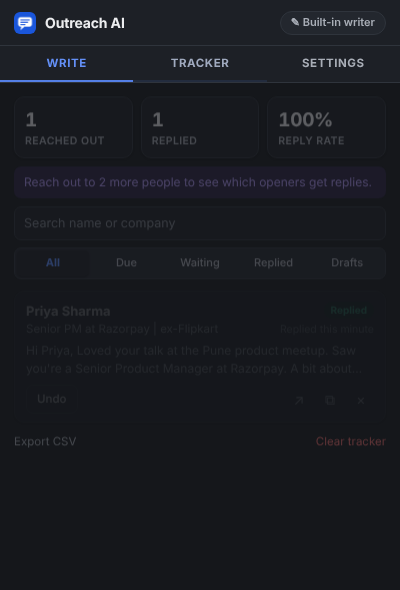
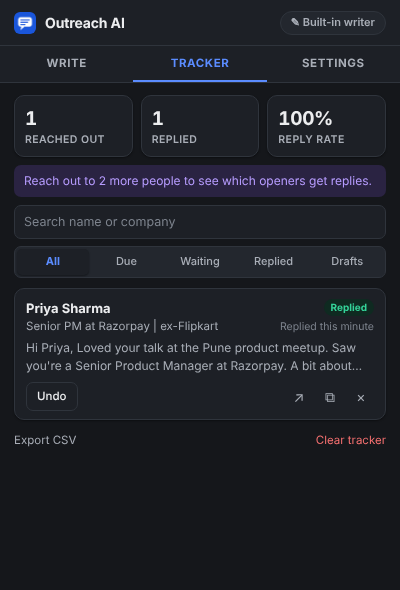
docs: v3.3 changelog, architecture + scaling, README, Loom outline; refreshed screenshots

diff --git a/docs/CHANGELOG.md b/docs/CHANGELOG.md
@@ -1,10 +1,83 @@
-# LinkedIn Outreach AI — v3.1.0 → v3.2.0
+# Changelog
+
+Two rounds of work on the original v3.1.0 extension:
+- **v3.2.0**: fix what was broken, make it honest, make the messages fit LinkedIn, insert into LinkedIn. (Original audit and steps at the bottom.)
+- **v3.3.0**: production-grade structure, follow-up tracking, profile read check, templates, dark mode, tests and CI.
+
+Each step is also a commit: `git log --oneline`.
+
+---
+
+## v3.3.0
+
+### Step 5 — Production-grade structure
+**Why:** v3.2 worked, but it was two 500-line files with storage calls scattered across both. That makes it hard to test, easy to corrupt data, and painful to change when LinkedIn does.
+
+**What:**
+- Split into ES modules: `shared/` (constants + pure text helpers), `background/` (router + one module per concern), `content/`, and `popup/` (one module per tab). The service worker runs as `"type": "module"`.
+- **Router** (`background/router.js`): one entry point. It checks that the sender is our own popup, rejects unknown actions, validates and length-caps every input, and returns user-safe errors. Unexpected errors are logged and masked.
+- **Storage layer** (`background/store.js`): the only code that touches `chrome.storage`. Every read-modify-write runs through a lock, so the popup and the hourly alarm can't overwrite each other.
+- **Schema v2 + migrations** (`background/migrate.js`): upgrades data from the original v3.1 and from v3.2 automatically. Contacts are now keyed by profile (`in:<slug>`), so no duplicates. The PDF the original stored is deleted.
+- **API client** (`background/anthropic.js`): 30 s timeout, up to 2 retries with exponential backoff and jitter, honours `Retry-After`, never retries auth errors, and gives clear error messages.
+- **The API key never goes back to the UI.** The popup only sees `hasKey` and a masked hint (`sk-ant-…1234`).
+- **Strict Content Security Policy.** No `innerHTML` with data anywhere in the popup.
+- **Draft session** moved to `chrome.storage.session`: in memory and cleared when the browser closes.
+
+### Step 6 — Follow-ups and reply tracking (new Tracker tab)
+**Why:** most replies on LinkedIn come after a follow-up, and the extension forgot people the moment you closed it.
+
+**What:**
+- Each person moves through **Draft → Copied → Inserted → Sent → Replied**. Insert sets it automatically; you mark Sent or Replied with one click (the extension never presses Send, so it can't know).
+- **Reminders:** after N days without a reply (default 5, set in Settings), the person moves to *Due*. The toolbar icon shows a **badge count**, an optional desktop notification fires once per due cycle, and clicking it opens their profile. Later follow-ups wait longer (5 → 7 → 9 days) and stop after 3.
+- **Write follow-up:** a short follow-up that refers to the original note. The second one offers a polite way out. Built-in or AI. Copy it, open the profile, and **Mark as sent** to log it.
+- **Stats:** reached out, replied, reply rate, plus an insight line showing which kind of opener gets replies (e.g. "Common ground — 2 of 3 replied").
+- **Search, filters** (All / Due / Waiting / Replied / Drafts), **paging**, and **CSV export** (opens correctly in Excel and is safe against formula injection).
+- **"Already contacted" banner** on the Write tab when you open someone you've written to before.
+
+### Step 7 — Profile read check
+**Why:** LinkedIn changes its markup often. When the scraper breaks, the old version silently produced generic messages.
+
+**What:**
+- The content script reports which of 8 parts it found (name, headline, location, about, experience, education, skills, recent posts). The popup shows a **"6/8 read"** pill; click it for the list.
+- If the essentials are missing (no headline *and* no experience), a **layout-change warning** explains that drafts will be generic.
+- Sections are found by LinkedIn's anchor ids first (language-independent), then by heading text. All selectors live in one `SELECTORS` block.
+- Insert now **checks the text actually landed**. If LinkedIn rejected it, the draft is copied and you're told to paste.
+
+### Step 8 — Saved templates
+**What:** **☆ Save as template** on any draft. Their name, company and title, your name, and the opening detail become `{firstName}`, `{company}`, `{title}`, `{myName}` and `{hook}`. Pick a template from the menu above the draft and it's filled in for the next person, with sensible fallbacks for missing values. Templates for the current purpose are listed first. Manage or delete them in Settings, where usage counts are shown.
+
+### Step 9 — Dark mode and polish
+- **Theme:** System / Light / Dark, built on a full set of colour variables (contrast checked by eye in both themes).
+- **Shortcuts:** `Alt+Shift+O` opens the extension; `Ctrl/⌘+Enter` inserts; `Alt+N` writes a new version.
+- **Accessibility:** proper tab roles, arrow-key navigation, visible focus rings, `aria-live` status messages, labelled icon buttons, and `prefers-reduced-motion` respected.
+- **Feel:** loading skeleton while reading, subtle fade-ins, toasts, a two-click confirm on destructive actions (no blocking dialogs), and a grouped Settings page.
+
+### Step 10 — Tooling, tests, CI
+- `npm run lint`: ESLint 9 (flat config). Clean.
+- `npm test`: **48 unit tests** (Node's built-in runner). Covers text helpers, hooks, the built-in writer (180-draft limit matrix), templates, tracker maths, migrations, API retry/timeout, AI prompts, and the router end to end with a mock Chrome (lifecycle, lock under concurrency, paging, CSV, badge, notifications, reset).
+- `npm run test:e2e`: **14-step Playwright run** in real Chrome with the extension loaded and linkedin.com routed to mock pages. It also asserts there are zero console errors and saves the screenshots.
+- `npm run package`: validates the manifest (version match, every referenced file exists) and builds `dist/linkedin-outreach-ai-v3.3.0.zip` (about 61 KB).
+- `.github/workflows/ci.yml`: lint → unit → e2e → package, with the zip and screenshots uploaded as build artifacts.
+
+### Found and fixed by the new tests
+- Applying a template with an empty `{hook}` left a stray leading space.
+- `"SQL"` would have matched `"PostgreSQL"` as common ground. Matching is now whole-word.
+- The toolbar badge could be up to an hour stale. It now refreshes whenever the popup opens.
+
+### Not verified (needs a manual check before the demo)
+- **The live LinkedIn DOM.** The e2e suite runs against mock pages shaped like LinkedIn's.
+- **Real Anthropic API calls.** There was no key in the test environment; the AI path is unit-tested against a stub.
+- **The GitHub Actions run.** The workflow is included but hasn't run on GitHub. Locally I used system Chrome via `CHROME_PATH`.
+
+---
+
+## v3.2.0 (from the original v3.1.0)
 
 A step-by-step log of what I changed, why, and how. The brief was "improve, don't rebuild", so the architecture is the same (popup → background service worker → content script). I fixed what was broken, removed what was misleading, and made the core job — getting a reply — work better.
 
 ---
 
-## Step 0 — Audit (before touching code)
+### Step 0 — Audit (before touching code)
 
 I read every file and used the extension the way a user would. Findings, worst first:
 
@@ -26,7 +99,7 @@ I read every file and used the extension the way a user would. Findings, worst f
 
 ---
 
-## Step 1 — Make it install and work
+### Step 1 — Make it install and work
 
 **Icons** — generated a simple 16/48/128 px icon (`tests/make_icons.py`) and added `action.default_icon`.
 
@@ -41,7 +114,7 @@ I read every file and used the extension the way a user would. Findings, worst f
 
 Purpose, tone and format choices are remembered between uses.
 
-## Step 2 — Make "Deep Mode" honest, then useful
+### Step 2 — Make "Deep Mode" honest, then useful
 
 **Removed** the fake 3-layer pipeline: the OpenAI labels, the L1/L2/L3 status dots, the artificial delay, the two-button scrape-then-generate flow, and the Quick/Deep toggle. Both modes ran the same local code, so there was nothing real to choose between.
 
@@ -59,7 +132,7 @@ Purpose, tone and format choices are remembered between uses.
 
 **Header badge** tells the truth: `Built-in writer` (nothing leaves the device) or `AI · your key`. The settings note now says exactly when data is sent to Anthropic.
 
-## Step 3 — Messages that fit LinkedIn and sound human
+### Step 3 — Messages that fit LinkedIn and sound human
 
 **Format selector:** Connect note (300) · Free-plan note (200) · Message (600 soft cap). Every writer respects the limit.
 
@@ -78,7 +151,7 @@ Purpose, tone and format choices are remembered between uses.
 - If the reply is still over the limit, it gets one "shorten this" pass, then a safe cut as a last resort.
 - Clearer API errors (401 → "key was rejected", 429 → "rate limited").
 
-## Step 4 — Insert into LinkedIn
+### Step 4 — Insert into LinkedIn
 
 New **Insert into LinkedIn** button. The content script finds the box you most likely mean, in this order:
 1. The **"Add a note"** textarea in the Connect dialog.
@@ -92,48 +165,11 @@ Safety and edge cases:
 - Text is inserted with the native value setter / `insertText`, so LinkedIn's own UI registers the change. The extension **never clicks Send**. You review and send it yourself.
 - On success, the Recent entry is marked **Inserted**.
 
-## Smaller fixes
+### Smaller fixes
 
 - The scraper restores your scroll position and works out location for any country (no hard-coded city list). Headline/role extraction handles `Title @ Company`.
 - The content script guards against being injected twice.
 - Cleaned the CSS: removed duplicated resume/upload blocks, unused provider/password/pipeline styles, and `text-transform: uppercase` on the API key field.
 - `esc()` now escapes quotes. The Recent list uses event delegation instead of per-index IDs.
 
----
-
-## How I tested it
-
-| Test | What it checks | Result |
-|---|---|---|
-| `node --check` on all JS + manifest JSON parse | Syntax | Pass |
-| `tests/unit.js` | 144 drafts (3 formats × 4 purposes × 3 tones × 4 variants) against the limit and for stray `undefined`/`null`; sparse profile; New version differs | 0 failures, 128 unique drafts |
-| `tests/ai_unit.js` | AI path with a stubbed Anthropic API: system prompt, limit in prompt, shortening retry, resume document block, no-key error | Pass |
-| `tests/e2e.js` (Playwright + real Chrome, extension loaded, linkedin.com routed to `tests/mock/profile.html`) | Read → hooks → auto-redraft → New version → format switch → Insert into note → replace guard → Insert into message box → copy fallback → session restore → Recent status → non-profile warning; no console errors | Pass |
-
-**Not verified:** the live LinkedIn DOM (the e2e uses a mock page shaped like LinkedIn's), and real Anthropic API calls (no key in the test environment). Both need a manual check on a real profile before the demo. The LinkedIn selectors are the most likely thing to need a tweak, because LinkedIn changes its markup often.
-
-Run the tests (Node 18+, Playwright, Chrome):
-```
-node tests/unit.js ./extension/background.js
-node tests/ai_unit.js ./extension/background.js
-node tests/e2e.js ./extension ./screenshots
-```
-(`popup.html?tabId=<id>` exists only so the e2e test can drive the popup as a normal page.)
-
-## Files changed
-
-| File | Change |
-|---|---|
-| `manifest.json` | v3.2.0, honest description, action icons |
-| `icons/*` | **new** |
-| `background.js` | single router; hooks + common ground; format-aware local writer; new AI prompt + shorten pass; resume reader; recent log; insert relay |
-| `content_script.js` | scraper fixes; **new** `insertMessage` |
-| `popup.html` | one flow; format selector; meter; hook picker; Insert button; background field; removed pipeline UI and `utils/cache.js` |
-| `popup.js` | rewritten around the single flow + session restore |
-| `popup.css` | layout fix, cleanup, styles for new components |
-
-## What I'd do next
-
-1. **Follow-up reminders**: Recent already knows who you inserted a note for. Nudge after 5 days with a follow-up draft.
-2. **Reply-rate tracking**: mark "Replied" in Recent to learn which hooks and purposes work.
-3. **Selector health check**: a tiny self-test that warns when LinkedIn's markup changes, instead of failing silently.
+*(v3.2's test notes and file list are superseded by v3.3: see the README for the current layout and test commands. The v3.2 "what next" list (follow-up reminders, reply tracking, selector health check) was built in v3.3.)*

diff --git a/docs/ARCHITECTURE.md b/docs/ARCHITECTURE.md
@@ -1,0 +1,99 @@
+# Architecture
+
+## Shape of the system
+
+```
+┌──────────────── Chrome (one per user) ────────────────────────────────────────┐
+│                                                                                │
+│  popup/ (ES modules)            background/ (MV3 service worker, ES modules)   │
+│  ┌──────────────┐  runtime     ┌──────────────────────────────────────────┐   │
+│  │ main.js      │  message     │ index.js   listeners (msg, alarms, notif)│   │
+│  │ write.js     │ ───────────▶ │ router.js  trusted-sender check, input   │   │
+│  │ tracker.js   │ {action,     │            validation, error shaping     │   │
+│  │ settings.js  │  payload}    │ ├─ hooks.js        profile → hooks       │   │
+│  │ api.js dom.js│ ◀─────────── │ ├─ writer-local.js built-in writer       │   │
+│  └──────────────┘ {success,    │ ├─ writer-ai.js    prompts + limit fit   │──▶ api.anthropic.com
+│                    data|error} │ ├─ anthropic.js    timeout/retry client  │   (only with user's key)
+│                                │ ├─ templates.js    placeholders          │   │
+│                                │ ├─ tracker.js      due dates, stats, CSV │   │
+│                                │ ├─ followups.js    alarm, badge, notify  │   │
+│                                │ ├─ store.js ──▶ chrome.storage (locked)  │   │
+│                                │ ├─ migrate.js      schema upgrades       │   │
+│                                │ └─ linkedin.js ──▶ tabs / scripting      │   │
+│                                └──────────────────────────┬───────────────┘   │
+│                                                           │ tabs.sendMessage  │
+│                                content/content_script.js ◀┘ (linkedin.com)    │
+│                                  SELECTORS · scrape + diagnostics · insert     │
+│  shared/constants.js · shared/text.js  — used by all of the above + tests      │
+└────────────────────────────────────────────────────────────────────────────────┘
+```
+
+**Rules that keep it maintainable**
+- **One writer to storage.** Only `background/store.js` touches `chrome.storage`. The popup never writes storage directly; it asks the router.
+- **Pure core, thin edges.** Hooks, both writers, templates, tracker maths and migrations are pure functions with no `chrome.*`. They're unit-tested in Node. Chrome APIs sit in `store`, `linkedin`, `followups` and `index`.
+- **One contract.** Every action name is in `shared/constants.js#ACTIONS`. Unknown actions and untrusted senders are rejected.
+- **Selectors in one place.** LinkedIn markup changes are a one-block edit in `content_script.js#SELECTORS`. The read check tells you when that edit is needed.
+
+## Data model (`chrome.storage.local`, schema v2)
+
+| Key | Shape | Notes |
+|---|---|---|
+| `schemaVersion` | `2` | `migrate.js` upgrades v3.1 / v3.2 data on install/update; idempotent |
+| `settings` | `{name, bio, background, apiKey, resumeFileName, followUpDays, notifications, theme}` | `apiKey` is never sent back to the UI (only `hasKey` + a masked hint) |
+| `prefs` | `{messageType, tone, format}` | last-used choices |
+| `contacts` | `{ [id: "in:<slug>"]: Contact }` | keyed by profile slug → O(1) upsert, no duplicates |
+| `templates` | `Template[]` | ≤ 50 |
+| *(session)* `draft` | current profile/hooks/draft | `chrome.storage.session`: in memory, cleared when the browser closes, 6 h TTL |
+
+`Contact`: `id, profileUrl, name, headline, company, purpose, format, message, hooks[≤2], status (drafted|copied|inserted|sent|replied|closed), followUps, createdAt, updatedAt, insertedAt, sentAt, lastTouchAt, repliedAt, notifiedAt, history[≤20]`.
+
+## Reliability
+
+| Concern | How it's handled |
+|---|---|
+| Lost updates (popup + hourly alarm writing at once) | `withLock()` promise queue around every read-modify-write. Unit test fires 50 concurrent increments and expects exactly 50. |
+| Service worker restarts mid-request | All listeners registered synchronously at top level. Every request awaits `ready` (migration) first. |
+| API flakiness | 30 s timeout via `AbortController`. Up to 2 retries with exponential backoff + jitter on 429/5xx/529/network. Honours `Retry-After`. No retry on 400/401/403. |
+| Over-long AI output | One "shorten" pass, then a sentence-boundary cut. Never exceeds the format's limit. |
+| Draft lost when the popup closes | Session saved on every change (debounced) and restored per profile URL. |
+| LinkedIn markup drift | Anchor-id lookup first, heading text as fallback. Read check reports `found/8` and flags a likely layout change. Insert verifies the text actually landed and falls back to copy if not. |
+| Old data after an update | Versioned migrations. The stored resume PDF from v3.1 is deleted. |
+| Unbounded growth | Contacts capped at 1,000 (prunes oldest drafts first, keeps people awaiting a reply). Tracker lists are paged (30 per page). |
+
+## Security & privacy
+
+- **No backend; no data leaves the browser** unless the user adds their own Anthropic key. Then only the profile text needed for the draft (and the resume, once) is sent to `api.anthropic.com`.
+- **Strict CSP** on extension pages (`script-src 'self'; object-src 'none'`). **No `innerHTML` with data** in the popup: every node is built with `textContent` (`dom.js#h`).
+- **Router only accepts our own extension pages** (`sender.id` + `chrome-extension://<id>/` URL). The content script only accepts messages from the extension.
+- **All inputs are validated and length-capped at the boundary** (`normalizeProfile`, `sanitizeHooks`, `sanitizeSettings`, router guards).
+- **CSV export neutralises spreadsheet formula injection** (`=`, `+`, `-`, `@` prefixes).
+- **Least surprise on LinkedIn.** The extension never clicks Send and never overwrites text the user typed without a second click.
+
+## Performance
+
+- Popup boot is one `getState` round-trip. Tabs render lazily; the tracker loads only when opened, 30 rows at a time, with debounced search.
+- The scraper scrolls only as far as the page allows and restores the user's scroll position.
+- Package size is about 61 KB with zero runtime dependencies.
+
+## Scaling
+
+**What exists today.** The extension is fully client-side, so it scales horizontally by construction. Each user's browser is its own compute and storage, and there's no shared server to overload. Within one user's browser, the bounded store, paging and lock keep it fast at the 1,000-contact cap.
+
+**If this became a product with a backend,** for team accounts, a shared key, cross-device sync or analytics, this is the design I'd use. **None of it is built here.** It would be a rebuild, which the brief ruled out.
+
+```
+extension ──HTTPS──▶ API gateway / edge (rate limit per user: token bucket in Redis)
+                       │
+                       ├─▶ stateless API pods (autoscaled on CPU/RPS — horizontal)
+                       │      ├─ /draft   → LLM proxy (holds org key; per-user quotas; retries; circuit breaker)
+                       │      ├─ /sync    → contacts/templates CRUD (last-write-wins + updatedAt)
+                       │      └─ /events  → analytics ingest
+                       ├─▶ Postgres (row-level security per user/org; read replicas for reporting;
+                       │            vertical scale first, partition `contacts` by org_id when needed)
+                       ├─▶ queue (e.g. SQS) → workers for slow jobs (resume parsing, enrichment)
+                       └─▶ observability: structured logs, traces, p95 latency + LLM cost dashboards
+```
+
+- **Horizontal:** API pods are stateless (sessions in JWTs, rate-limit state in Redis), so you add replicas behind the load balancer. LLM calls go through a queue with a concurrency cap so bursts can't exhaust provider quotas.
+- **Vertical:** Postgres is scaled up first (simplest). Then add read replicas for analytics, then partition by `org_id`.
+- **The client is already shaped for it.** `store.js` is the only persistence boundary, so sync can be added there. `anthropic.js` is injectable, so it can point at the proxy instead of the provider. Contact ids are stable (`in:<slug>`), so merging across devices is deterministic.

diff --git a/docs/LOOM_OUTLINE.md b/docs/LOOM_OUTLINE.md
@@ -1,0 +1,36 @@
+# Loom outline (aim for 6–7 minutes)
+
+Talking points, not a script. Say it in your own words. Keep a browser tab ready with the original code from Drive, this repo in your editor, and LinkedIn open on a real profile.
+
+## 1. Framing (20 s)
+- "I treated this like a product review: what stops someone getting a reply on LinkedIn, and where does the extension get in the way?"
+- Three problems: **it was broken, it overpromised, and its messages wouldn't get replies.** Then one missing piece: **it forgot people the moment you closed it.**
+
+## 2. What I found (60 s) — show the original code
+- `utils/cache.js` and the icons were missing → Recent never worked, and the extension might not even load.
+- Deep Mode: "OpenAI — Web Enrichment" in the HTML vs `companyNews: []` and `delay(300)` in the code. "A progress bar for work that isn't happening. For a tool that handles people's data, that's a trust problem."
+- The resume was stored but never used. The prompt allowed 600 chars for 300-char notes. The free template said "impressed by your work".
+
+## 3. Demo (3 min)
+1. **Settings** → name, one-liner, background (or resume → it fills in). Mention the key is never shown back, only `sk-ant-…1234`.
+2. **Profile → Read profile & draft.** Point out the `8/8 read` pill and the ★ common-ground hooks.
+3. Click another hook → the draft rewrites. **Add your own detail.** **New version** (or `Alt+N`).
+4. Switch format 300 → 200 → watch the meter and the draft re-fit.
+5. **Connect → Add a note** on LinkedIn → the popup closes → reopen: the draft is still there → `Ctrl+Enter` inserts. Click again → the "won't overwrite your text" guard.
+6. **☆ Save as template** → pick it from the menu → it's filled in for this person.
+7. **Tracker** → Inserted → Mark sent. "In 5 days this shows up as Due with a badge on the icon." Show **Write follow-up** → **Mark as sent** → **Replied** → stats and the "what's working" insight.
+8. **Dark mode** toggle. Export CSV.
+
+## 4. How it's built (90 s) — editor + terminal
+- Kept MV3 popup → service worker → content script, but split into modules. Open `docs/ARCHITECTURE.md` and show the diagram.
+- Three things that make it production-grade:
+  1. **One storage writer with a lock**. Show the concurrency test (50 parallel updates → exactly 50).
+  2. **Schema migrations**: users of the old version keep their data, and the stored PDF gets deleted.
+  3. **API client** with timeout, backoff and `Retry-After`; **router** that only accepts our own popup and validates every input.
+- **Read check + one `SELECTORS` block**: when LinkedIn changes, you find out and fix it in one place.
+- Run `npm run check` live: lint, 48 unit tests, 14-step e2e in real Chrome.
+
+## 5. Scaling + trade-offs (40 s)
+- "It's fully client-side, so it scales per user by construction: no server to overload. I deliberately didn't add a backend because the brief said not to rebuild." Show the scaling section: stateless API behind a gateway, LLM proxy with quotas, Postgres with row-level security, and why the client is already shaped for it (one storage boundary, injectable API client, stable contact ids).
+- Trade-off: removed Deep Mode instead of making it "real" with web search. Honest and useful beat impressive-looking.
+- Next: test against the live LinkedIn DOM with a small selector-health ping, and an A/B of openers using the reply-rate data.

diff --git a/README.md b/README.md
@@ -1,0 +1,56 @@
+# LinkedIn Outreach AI — v3.3.0
+
+Write a short, specific LinkedIn note from the profile you're viewing, built around what you actually have in common. Insert it into LinkedIn in one click, and get reminded to follow up if they don't reply.
+
+| Write | Tracker | Dark mode |
+|---|---|---|
+| ![Write](screenshots/03-drafted.png) | ![Tracker](screenshots/05-followup.png) | ![Dark](screenshots/08-write-dark.png) |
+
+## Install (2 minutes)
+1. Unzip `dist/linkedin-outreach-ai-v3.3.0.zip` (or use the `extension/` folder directly).
+2. Open `chrome://extensions`, switch on **Developer mode**, click **Load unpacked**, and select the folder.
+3. Pin **LinkedIn Outreach AI**. Shortcut: `Alt+Shift+O`.
+
+## Use
+1. **Settings:** add your name, a one-liner and your background (companies, schools, skills, city). Optionally add your Anthropic key for AI drafts and resume reading.
+2. Open someone's profile → **Read profile & draft**. The pill shows how much of the profile was read (e.g. `8/8 read`).
+3. Under **What to mention**, pick up to two hooks (★ = something you have in common) or add your own detail. Choose the format (300 / 200 / message) and the draft fits automatically.
+4. On LinkedIn open **Connect → Add a note** or **Message**, reopen the extension (the draft is still there), then **Insert into LinkedIn** (`Ctrl/⌘+Enter`). Read it, then send.
+5. **Tracker:** mark people Sent or Replied. When a follow-up is due you'll see a badge on the icon. **Write follow-up**, send it, then **Mark as sent**.
+6. Like a draft? **☆ Save as template** and reuse it for anyone.
+
+Without an API key everything runs locally, and nothing leaves your browser.
+
+## What's new
+See **[docs/CHANGELOG.md](docs/CHANGELOG.md)**: the original audit, every change step by step, and why.
+See **[docs/ARCHITECTURE.md](docs/ARCHITECTURE.md)**: module map, data model, reliability, security and the scaling plan.
+
+## Develop
+```bash
+npm ci
+npm run lint        # ESLint
+npm test            # 48 unit tests (node:test)
+npm run test:e2e    # 14-step Playwright run in real Chrome against mock LinkedIn pages
+                    #   (set CHROME_PATH=/path/to/chrome to use an installed Chrome)
+npm run package     # validates manifest → dist/linkedin-outreach-ai-v<version>.zip
+npm run check       # all of the above except package
+```
+
+```
+extension/
+  manifest.json
+  background/   index · router · store · migrate · hooks · writer-local · writer-ai
+                anthropic · templates · tracker · followups · linkedin
+  content/      content_script.js   (all LinkedIn selectors in one SELECTORS block)
+  popup/        popup.html · popup.css · main · write · tracker · settings · api · dom
+  shared/       constants.js · text.js
+tests/unit/     *.test.mjs + helpers (chrome mock, fixtures)
+tests/e2e/      run.mjs + mock LinkedIn pages
+scripts/        package.mjs · make_icons.py
+docs/           CHANGELOG · ARCHITECTURE · LOOM_OUTLINE
+```
+
+## Known limits
+- LinkedIn changes its markup. If **Read** or **Insert** misbehaves, update `SELECTORS` in `content/content_script.js`; the read check will flag it.
+- The character limits (300 / 200) match what LinkedIn has shown. At insert time the extension reads LinkedIn's real `maxlength` and warns if it's lower.
+- The extension never presses Send, so "Sent" and "Replied" are marked by you.
